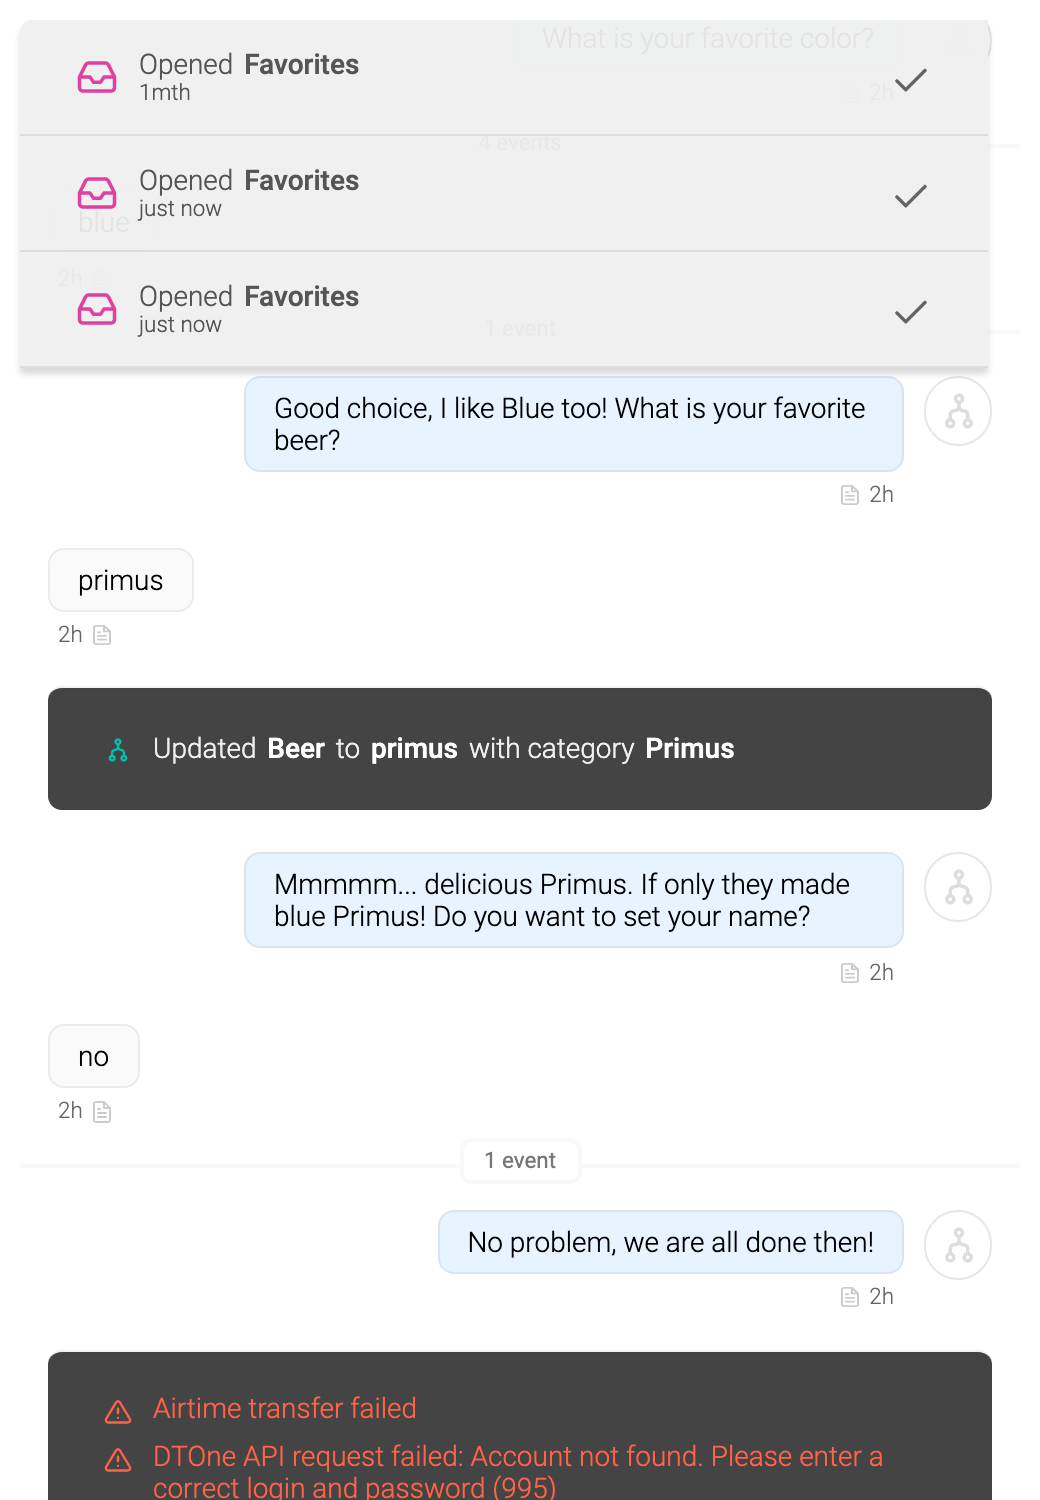
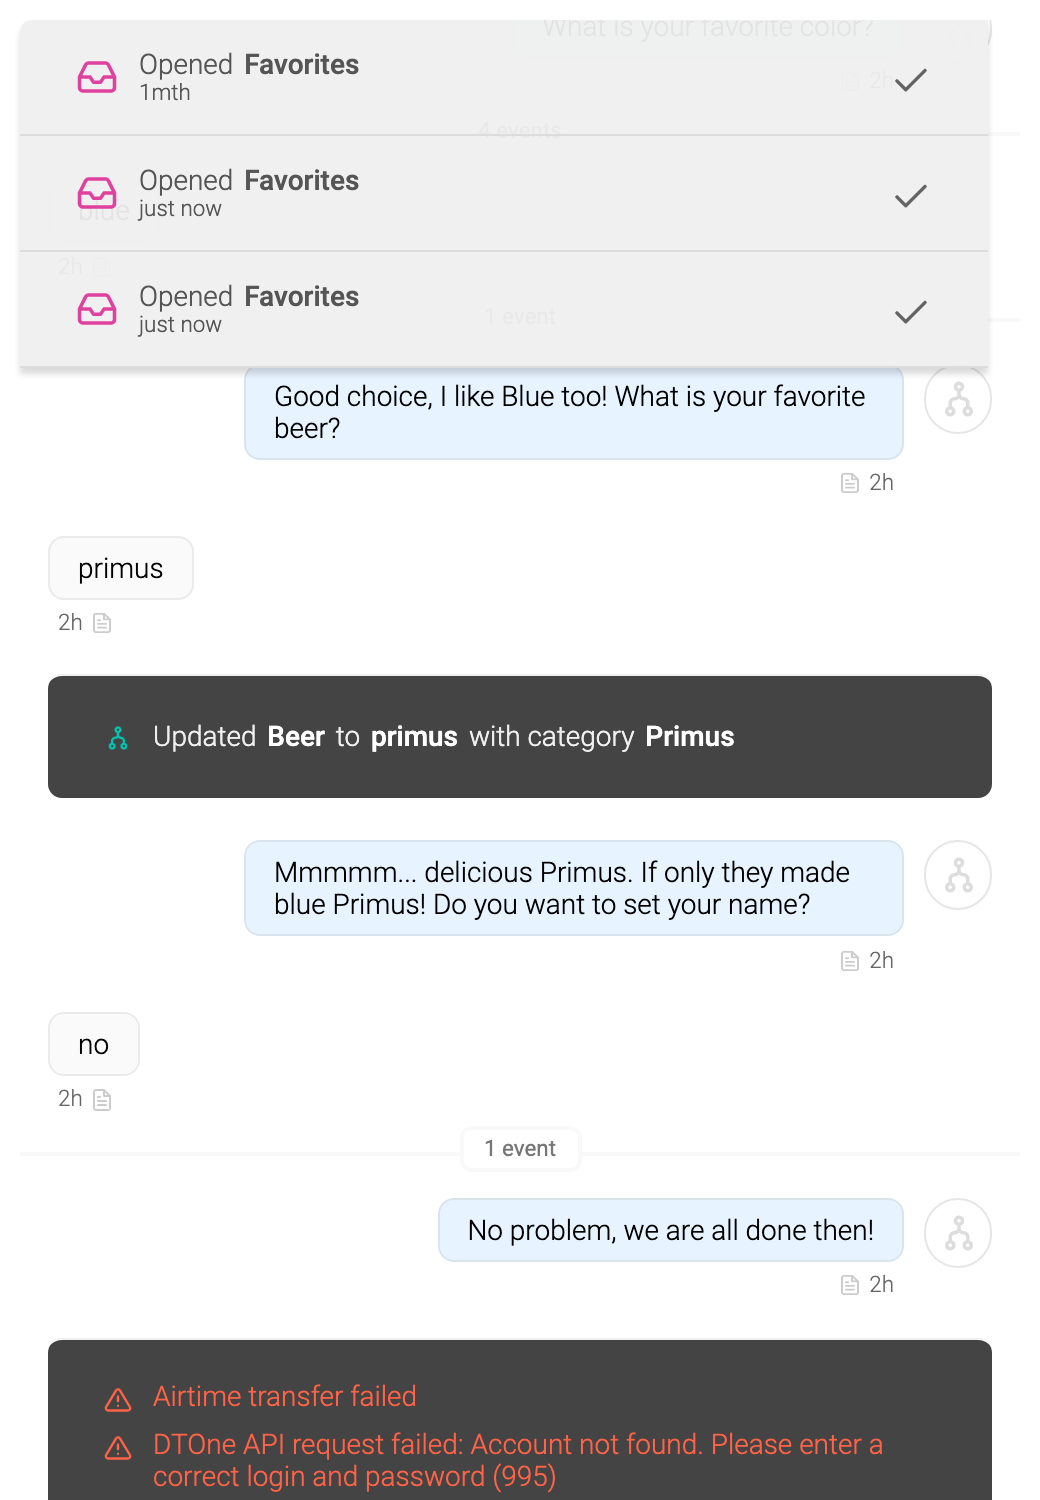
Make sure initial scroll happens after first render

diff --git a/src/contacts/ContactHistory.ts b/src/contacts/ContactHistory.ts
@@ -454,7 +454,9 @@ export class ContactHistory extends RapidElement {
 
       // scroll to the bottom if it's our first fetch
       if (!this.lastHeight) {
-        this.scrollToBottom();
+        window.setTimeout(() => {
+          this.scrollToBottom();
+        }, 0);
       }
 
       // don't record our scroll height until we have history

diff --git a/test/temba-contact-history.test.ts b/test/temba-contact-history.test.ts
@@ -77,7 +77,7 @@ describe('temba-contact-history', () => {
     expect(top).to.equal(156);
 
     // make sure we actually scrolled to there
-    expect(events.scrollTop).to.equal(top - 6);
+    expect(events.scrollTop).to.equal(top);
 
     await assertScreenshot('contacts/history', getHistoryClip(history));
   });
